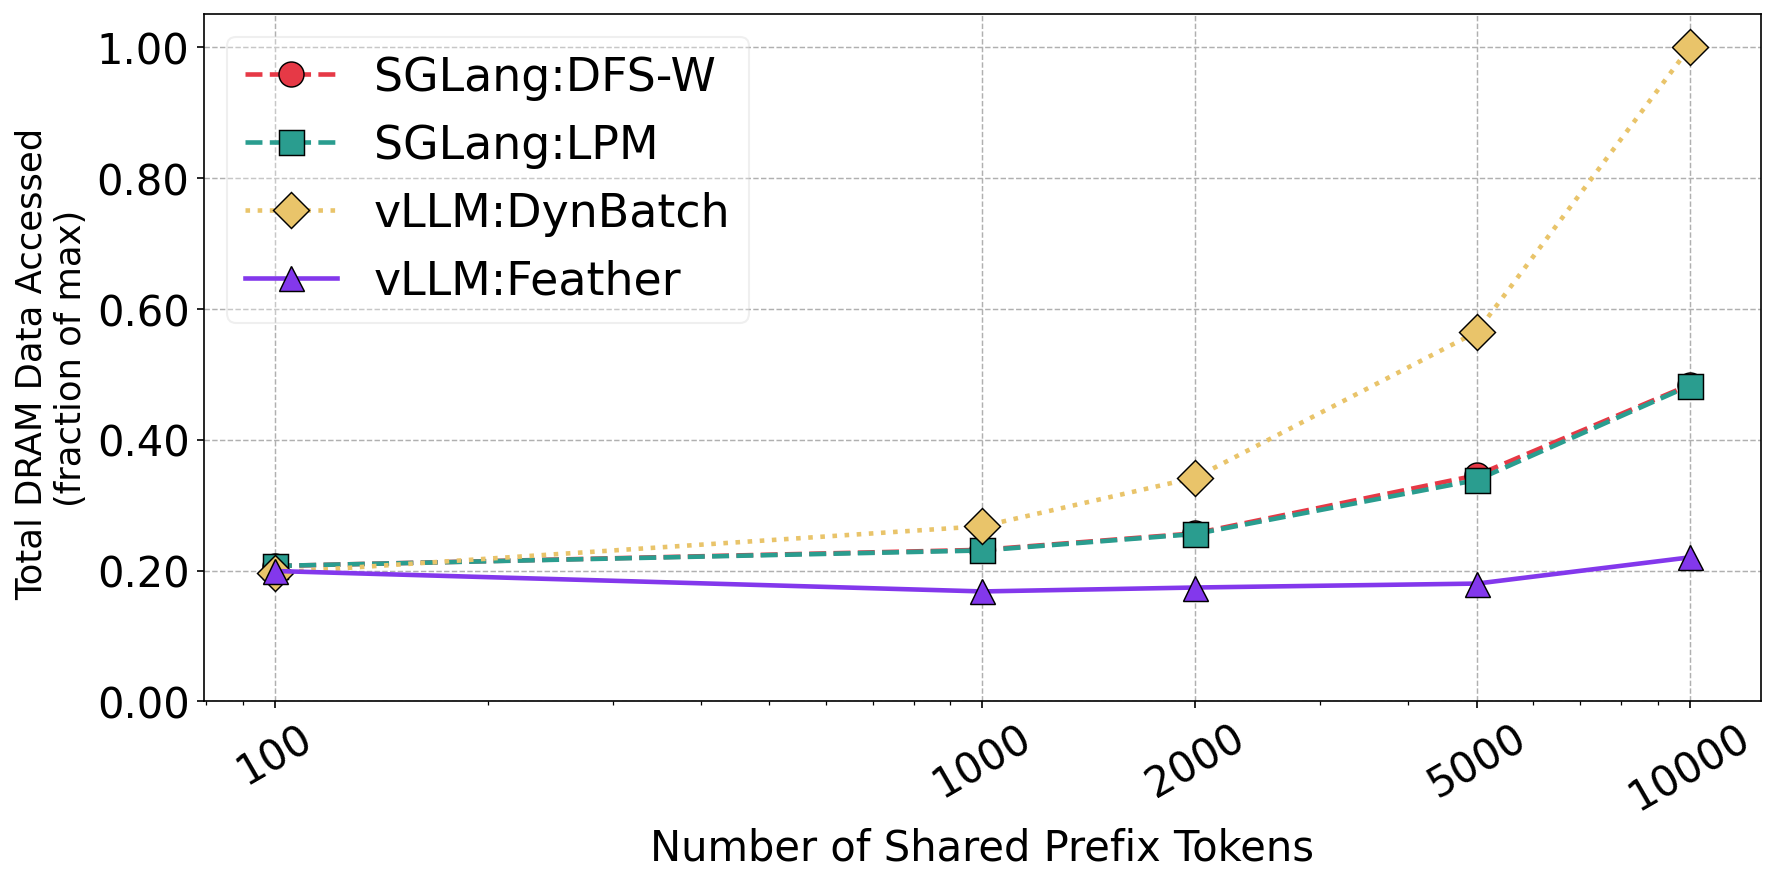
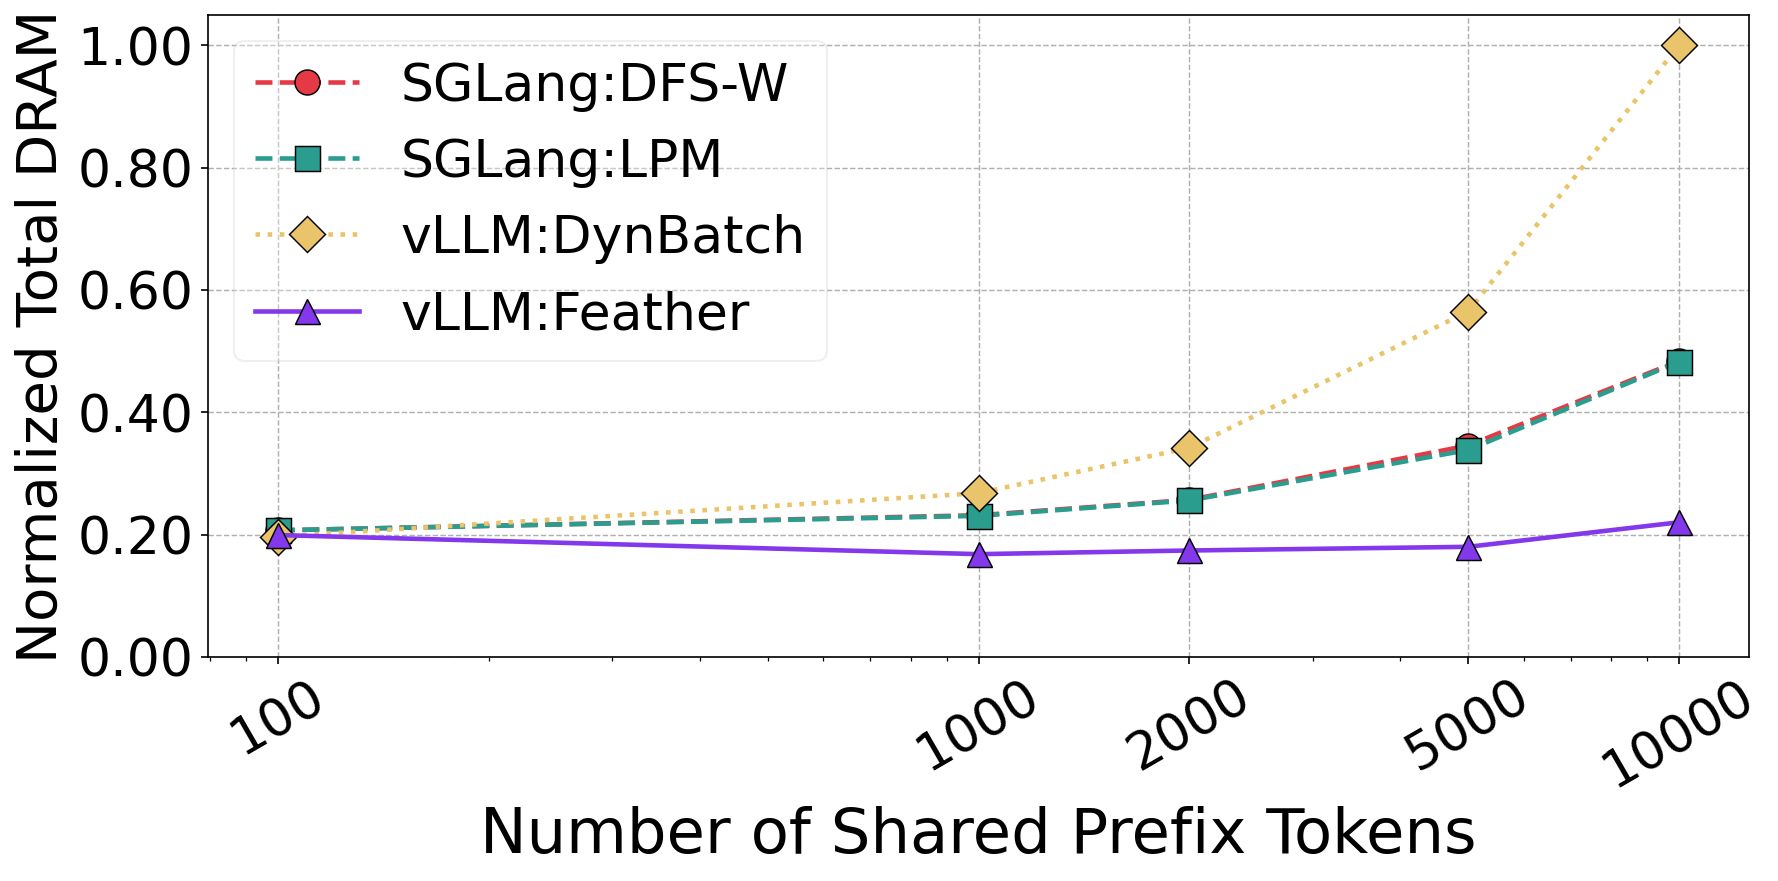
overhead

diff --git a/code/vllm/sys_prompt_tokens_logs_drama/plot.py b/code/vllm/sys_prompt_tokens_logs_drama/plot.py
@@ -220,8 +220,8 @@ def plot_metric(data: dict, metric: str, out_dir: str, normalised: bool = False)
     all_tokens = sorted({tok for series in data.values() for tok in series})
 
     ylabel_map = {
-        "mean": "Mean DRAM Bandwidth Utilzation (%)",
-        "sum":  "Total DRAM Data Accessed \n(fraction of max)",
+        "mean": "Mean DRAM BW (%)",
+        "sum":  "Normalized Total DRAM",
     }
     fname_map = {
         "mean": "mean_dram_vs_sys_prompt_tokens.png",
@@ -262,13 +262,13 @@ def plot_metric(data: dict, metric: str, out_dir: str, normalised: bool = False)
         )
 
     ax.set_xscale("log")
-    ax.set_xlabel("Number of Shared Prefix Tokens", fontsize=20)
-    ax.set_ylabel(ylabel_map[metric],               fontsize=17)
+    ax.set_xlabel("Number of Shared Prefix Tokens", fontsize=30)
+    ax.set_ylabel(ylabel_map[metric],               fontsize=27)
 
     ax.set_xticks(all_tokens)
     ax.set_xticklabels(all_tokens, rotation=30)
     ax.get_xaxis().set_major_formatter(ticker.ScalarFormatter())
-    ax.tick_params(axis="both", labelsize=20)
+    ax.tick_params(axis="both", labelsize=25)
 
     if metric == "sum":
         # Show as 0.00–1.00 on y-axis
@@ -278,7 +278,7 @@ def plot_metric(data: dict, metric: str, out_dir: str, normalised: bool = False)
         ax.yaxis.set_major_formatter(ticker.FormatStrFormatter("%.2f"))
         ax.set_ylim(bottom=0)
 
-    ax.legend(fontsize=22, framealpha=0.3, ncol=1)
+    ax.legend(fontsize=25, framealpha=0.3, ncol=1)
     ax.grid(True, linewidth=0.7, linestyle="--")
     plt.tight_layout()
     fig.savefig(outpath, dpi=150, bbox_inches="tight", facecolor=fig.get_facecolor())
